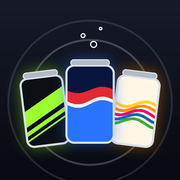
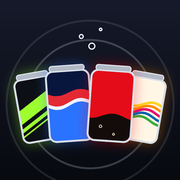
Add files via upload

diff --git a/radar.html b/radar.html
@@ -6,7 +6,7 @@
 <meta name="robots" content="noindex, nofollow">
 <meta name="theme-color" content="#05070a">
 <script>
-  window.RADAR_PRODUCTS = {"monster": {"key": "monster", "name": "Monster", "title": ["Monster", "Radar"], "dockLabel": "Monster", "offers": "monster.json", "history": "history.json", "metric": "unit", "unitWord": "Dose", "themeKey": "monsterradar:theme", "baseColor": "#05070a", "altColor": "#eef1f4", "labels": ["Original", "Ultra White"], "emoji": "⚡", "job": "Radar-Angebote", "fallbackDesc": "Monster Energy", "sparks": true, "fizz": false, "swirl": false, "slices": "can", "sharePage": "monster.html"}, "pepsi": {"key": "pepsi", "name": "Pepsi", "title": ["Pepsi", "Radar"], "dockLabel": "Pepsi", "offers": "pepsi.json", "history": "pepsi_history.json", "metric": "litre", "unitWord": "Flasche", "themeKey": "pepsiradar:theme", "baseColor": "#03060f", "altColor": "#edf1f6", "labels": ["Pepsi Max", "Pepsi Light"], "emoji": "🥤", "job": "Radar-Angebote", "fallbackDesc": "Pepsi", "sparks": false, "fizz": true, "swirl": false, "slices": "lemon", "sharePage": "pepsi.html"}, "spezi": {"key": "spezi", "name": "Spezi", "title": ["Spezi", "Radar"], "dockLabel": "Spezi", "offers": "spezi.json", "history": "spezi_history.json", "metric": "litre", "unitWord": "Flasche", "themeKey": "speziradar:theme", "baseColor": "#fff6e6", "altColor": "#140b12", "labels": ["Spezi", "Spezi Zero"], "emoji": "🍊", "job": "Radar-Angebote", "fallbackDesc": "Paulaner Spezi", "sparks": false, "fizz": false, "swirl": true, "slices": "orange", "sharePage": null}};
+  window.RADAR_PRODUCTS = {"monster": {"key": "monster", "name": "Monster", "title": ["Monster", "Radar"], "dockLabel": "Monster", "offers": "monster.json", "history": "history.json", "metric": "unit", "unitWord": "Dose", "themeKey": "monsterradar:theme", "baseColor": "#05070a", "altColor": "#eef1f4", "labels": ["Original", "Ultra White"], "emoji": "⚡", "job": "Radar-Angebote", "fallbackDesc": "Monster Energy", "sparks": true, "fizz": false, "swirl": false, "slices": "can", "sharePage": "monster.html"}, "pepsi": {"key": "pepsi", "name": "Pepsi", "title": ["Pepsi", "Radar"], "dockLabel": "Pepsi", "offers": "pepsi.json", "history": "pepsi_history.json", "metric": "litre", "unitWord": "Flasche", "themeKey": "pepsiradar:theme", "baseColor": "#03060f", "altColor": "#edf1f6", "labels": ["Pepsi Max", "Pepsi Light"], "emoji": "🥤", "job": "Radar-Angebote", "fallbackDesc": "Pepsi", "sparks": false, "fizz": true, "swirl": false, "slices": "lemon", "sharePage": "pepsi.html"}, "spezi": {"key": "spezi", "name": "Spezi", "title": ["Spezi", "Radar"], "dockLabel": "Spezi", "offers": "spezi.json", "history": "spezi_history.json", "metric": "litre", "unitWord": "Flasche", "themeKey": "speziradar:theme", "baseColor": "#fff6e6", "altColor": "#140b12", "labels": ["Spezi", "Spezi Zero"], "emoji": "🍊", "job": "Radar-Angebote", "fallbackDesc": "Paulaner Spezi", "sparks": false, "fizz": false, "swirl": true, "slices": "orange", "sharePage": null}, "cola": {"key": "cola", "name": "Cola", "title": ["Cola", "Radar"], "dockLabel": "Cola", "offers": "cola.json", "history": "cola_history.json", "metric": "litre", "unitWord": "Flasche", "themeKey": "colaradar:theme", "baseColor": "#0a0a0b", "altColor": "#eef0f2", "labels": ["Cola Zero", "Cola Light"], "emoji": "🥤", "job": "Radar-Angebote", "fallbackDesc": "Cola", "sparks": false, "fizz": true, "swirl": false, "slices": "lemon", "sharePage": null}};
   (function () {
     var P = window.RADAR_PRODUCTS, key = location.hash.replace('#', '');
     try { if (!P[key]) key = localStorage.getItem('spassradar:product'); } catch (e) {}
@@ -21,14 +21,14 @@
   })();
 </script>
 <title>Spaßgetränke Radar</title>
-<meta name="description" content="Monster, Pepsi und Paulaner Spezi im Angebot, mit Preisen, Laufzeit und Filialen in der Nähe.">
+<meta name="description" content="Monster, Pepsi, Spezi und Cola im Angebot, mit Preisen, Laufzeit und Filialen in der Nähe.">
 <meta property="og:title" content="Spaßgetränke Radar">
-<meta property="og:description" content="Monster, Pepsi und Paulaner Spezi im Angebot, mit Preisen, Laufzeit und Filialen in der Nähe.">
+<meta property="og:description" content="Monster, Pepsi, Spezi und Cola im Angebot, mit Preisen, Laufzeit und Filialen in der Nähe.">
 <meta property="og:type" content="website">
 <!-- App-Einbindung: eigenes Symbol, Start im Vollbild ohne Browserleisten -->
-<link rel="icon" type="image/png" sizes="192x192" href="radar-icon-192.png?v=4c238d9a">
-<link rel="apple-touch-icon" sizes="180x180" href="radar-icon-180.png?v=4c238d9a">
-<link rel="manifest" href="radar.webmanifest?v=4c238d9a">
+<link rel="icon" type="image/png" sizes="192x192" href="radar-icon-192.png?v=379a805d">
+<link rel="apple-touch-icon" sizes="180x180" href="radar-icon-180.png?v=379a805d">
+<link rel="manifest" href="radar.webmanifest?v=379a805d">
 <meta name="apple-mobile-web-app-capable" content="yes">
 <meta name="mobile-web-app-capable" content="yes">
 <meta name="apple-mobile-web-app-status-bar-style" content="black-translucent">
@@ -1482,6 +1482,151 @@ html.radar-spezi[data-mr="ultra"] .nrg-slices .cb { border-color: rgba(255, 200,
 }
 
 /* ==========================================================================
+   Cola Radar: Rot, Schwarz und Silber auf derselben Bauweise.
+   Cola Zero: tiefes Schwarz mit leuchtendem Rot.
+   Cola Light: Silber und Weiß mit roten Akzenten.
+   Kein Schriftlogo, kein geschwungenes Markenband: nur die Farben.
+   ========================================================================== */
+
+html.radar-cola {
+  --mr-bg: #0a0a0b;
+  --mr-panel: #141416;
+  --mr-panel-2: #1b1b1e;
+  --mr-card-a: #18181b;
+  --mr-line: #2a2a2e;
+  --mr-line-strong: #3b3b41;
+  --mr-fg: #f4f4f5;
+  --mr-strong: #ffffff;
+  --mr-dim: #a1a1aa;
+  --mr-faint: #74747c;
+  --mr-claim: #d6d6db;
+  --mr-desc: #b6b6bd;
+  --mr-street: #e8e8eb;
+  --mr-accent: #f40009;
+  --mr-accent-soft: #ff4d55;
+  --mr-on-accent: #ffffff;
+  --cl-brown: #3b1a0e;
+  --mr-tiles: invert(1) hue-rotate(180deg) grayscale(.6) brightness(.8) contrast(.95);
+}
+
+html.radar-cola[data-mr="ultra"] {
+  color-scheme: light;
+  --mr-bg: #eef0f2;
+  --mr-panel: #ffffff;
+  --mr-panel-2: #f5f6f7;
+  --mr-card-a: #ffffff;
+  --mr-line: #d9dce0;
+  --mr-line-strong: #c2c6cc;
+  --mr-fg: #16171a;
+  --mr-strong: #0b0b0c;
+  --mr-dim: #555a62;
+  --mr-faint: #8a8f97;
+  --mr-claim: #2e3238;
+  --mr-desc: #444950;
+  --mr-street: #16171a;
+  --mr-accent: #e4002b;
+  --mr-accent-soft: #ff4059;
+  --mr-on-accent: #ffffff;
+  --mr-tiles: grayscale(.9) brightness(1.04) contrast(.96);
+}
+
+/* Kopf: schwarz mit rotem Leuchten, unten Wellen in Rot und Cola-Braun */
+html.radar-cola .nrg-hero {
+  background:
+    radial-gradient(60% 90% at 88% 0%, rgba(244, 0, 9, .30), transparent 70%),
+    radial-gradient(45% 70% at 8% 100%, rgba(244, 0, 9, .10), transparent 70%),
+    var(--mr-bg);
+  border-bottom: 0;
+  box-shadow: none;
+  padding-bottom: 76px;
+}
+html.radar-cola .nrg-grid {
+  background:
+    repeating-linear-gradient(115deg, rgba(244, 0, 9, .12) 0 2px, transparent 2px 46px),
+    radial-gradient(60% 80% at 20% 0%, rgba(244, 0, 9, .14), transparent 70%);
+}
+html.radar-cola .nrg-title span:last-child { text-shadow: 0 0 28px rgba(244, 0, 9, .55); }
+html.radar-cola .nrg-title, html.radar-cola .nrg-claim { z-index: 2; }
+html.radar-cola .nrg-fizz i {
+  border-color: rgba(255, 232, 205, .65);
+  background: radial-gradient(circle at 32% 30%, rgba(255,255,255,.8) 0 12%, rgba(255, 200, 150, .15) 13% 60%, transparent 62%);
+  box-shadow: 0 0 8px rgba(244, 0, 9, .25);
+}
+html.radar-cola .nrg-waves .w-back { fill: var(--cl-brown); }
+html.radar-cola .nrg-waves .w-front { fill: #f40009; }
+html.radar-cola .fruit-lemon, html.radar-cola .nrg-slices.is-lemon .sl { filter: drop-shadow(0 0 12px rgba(245, 212, 20, .45)); }
+
+/* Cola Light: silberner Kopf, rote Schrift-Akzente */
+html.radar-cola[data-mr="ultra"] .nrg-hero {
+  background:
+    radial-gradient(70% 90% at 85% 10%, rgba(228, 0, 43, .10), transparent 70%),
+    linear-gradient(180deg, #ffffff 0%, #eceef1 100%);
+}
+html.radar-cola[data-mr="ultra"] .nrg-grid {
+  background: repeating-linear-gradient(115deg, rgba(120, 125, 135, .14) 0 2px, transparent 2px 46px);
+}
+html.radar-cola[data-mr="ultra"] .nrg-title span:last-child { text-shadow: 0 0 22px rgba(228, 0, 43, .22); }
+html.radar-cola[data-mr="ultra"] .nrg-fizz i {
+  border-color: rgba(120, 125, 135, .45);
+  background: radial-gradient(circle at 32% 30%, rgba(255,255,255,.95) 0 14%, rgba(180,185,195,.12) 15% 60%, transparent 62%);
+  box-shadow: none;
+}
+html.radar-cola[data-mr="ultra"] .nrg-waves .w-back { fill: rgba(59, 26, 14, .75); }
+html.radar-cola[data-mr="ultra"] .nrg-waves .w-front { fill: #e4002b; }
+html.radar-cola[data-mr="ultra"] .nrg-slices.is-lemon .sl { filter: drop-shadow(0 3px 8px rgba(120, 100, 0, .2)); }
+html.radar-cola[data-mr="ultra"] .nrg-ticker { background: linear-gradient(90deg, #d8dbe0, #ffffff 30%, #f3d9dd 60%, #ffffff 80%, #d8dbe0); }
+
+/* Karten: kleine Perlen in Rot statt Kratzspuren */
+html.radar-cola .can-claw { gap: 9px; align-items: flex-end; top: 14px; opacity: .85; }
+html.radar-cola .can-claw i {
+  width: 9px; height: 9px; border-radius: 50%;
+  background: none; border: 2px solid var(--mr-accent); transform: none;
+  animation: fizz 2.6s ease-in infinite;
+}
+html.radar-cola .can-claw i:nth-child(2) { width: 13px; height: 13px; animation-delay: .7s; }
+html.radar-cola .can-claw i:nth-child(3) { width: 7px; height: 7px; animation-delay: 1.4s; }
+html.radar-cola .can-top span { background: #ffffff; color: #d10007; }
+html.radar-cola[data-mr="ultra"] .can-top span { background: #0b0b0c; color: #ffffff; }
+html.radar-cola .can-pack.is-litre { border-color: color-mix(in srgb, var(--mr-accent) 55%, transparent); color: var(--mr-accent-soft); }
+html.radar-cola[data-mr="ultra"] .can.is-top { box-shadow: 0 0 0 1px rgba(228, 0, 43, .45), 0 16px 36px rgba(228, 0, 43, .12); }
+
+/* Kleine Beschriftungen im hellen Design: dunkles Rot statt des Monster-Babyblaus */
+html.radar-cola[data-mr="ultra"] .can-litre,
+html.radar-cola[data-mr="ultra"] .cs-head,
+html.radar-cola[data-mr="ultra"] .cs-dist,
+html.radar-cola[data-mr="ultra"] .can-soon,
+html.radar-cola[data-mr="ultra"] .nas-name,
+html.radar-cola[data-mr="ultra"] .nrg-claim b,
+html.radar-cola[data-mr="ultra"] .nrg-all > summary b,
+html.radar-cola[data-mr="ultra"] .cs-none a,
+html.radar-cola[data-mr="ultra"] .hk b,
+html.radar-cola[data-mr="ultra"] .hist-weeks b,
+html.radar-cola[data-mr="ultra"] .can-deal.is-good,
+html.radar-cola[data-mr="ultra"] .claim-deal,
+html.radar-cola[data-mr="ultra"] .hl-best,
+html.radar-cola[data-mr="ultra"] .can-pack.is-litre { color: #b8001f; }
+html.radar-cola[data-mr="ultra"] .hl-best.is-zero { color: var(--mr-faint); }
+html.radar-cola[data-mr="ultra"] .can-clock.is-upcoming { color: #b8001f; box-shadow: inset 0 0 0 2px #b8001f; }
+html.radar-cola[data-mr="ultra"] .holo { mix-blend-mode: multiply; opacity: .25; }
+
+html.radar-cola .mr-switch button[data-mr-theme="original"][aria-pressed="true"] {
+  background: #0b0b0c; color: #ffffff;
+  box-shadow: inset 0 0 0 1px #f40009, 0 0 0 2px rgba(244, 0, 9, .35);
+}
+html.radar-cola .mr-switch button[data-mr-theme="ultra"][aria-pressed="true"] {
+  background: linear-gradient(135deg, #ffffff, #e2e5e9);
+  color: #b8001f;
+  box-shadow: inset 0 0 0 1px #c2c6cc, 0 0 0 2px rgba(228, 0, 43, .3);
+}
+
+@media (max-width: 740px) {
+  html.radar-cola .nrg-hero { padding-bottom: 60px; }
+}
+@media (prefers-reduced-motion: reduce) {
+  html.radar-cola .can-claw i { animation: none; }
+}
+
+/* ==========================================================================
    Spaßgetränke Radar: Wechselleiste unten und Farbwisch beim Umschalten.
    Nur auf radar.html eingebunden.
    ========================================================================== */
@@ -1530,6 +1675,7 @@ main { padding-bottom: calc(env(safe-area-inset-bottom) + 110px) !important; }
 .dot-monster { background: #9dff2e; box-shadow: 0 0 10px rgba(157, 255, 46, .7); }
 .dot-pepsi { background: linear-gradient(180deg, #e32934 0 45%, #ffffff 45% 55%, #2a73ff 55%); }
 .dot-spezi { background: conic-gradient(#ffd21f, #ff8a00, #e5006d, #0064b0, #3aaa35, #ffd21f); }
+.dot-cola { background: radial-gradient(circle at 35% 30%, #ff6b70 0 18%, #f40009 22%); box-shadow: 0 0 0 2px #0b0b0c inset, 0 0 8px rgba(244, 0, 9, .55); }
 .radar-dock button[aria-pressed="true"] .dock-dot { box-shadow: 0 0 0 2px rgba(255, 255, 255, .85); }
 
 /* Farbwisch: schräge Fläche in der Markenfarbe fegt über den Bildschirm */
@@ -1544,6 +1690,7 @@ main { padding-bottom: calc(env(safe-area-inset-bottom) + 110px) !important; }
 .wipe-monster { background: linear-gradient(115deg, #05070a 0 40%, #9dff2e 40% 60%, #05070a 60%); }
 .wipe-pepsi { background: linear-gradient(115deg, #03060f 0 38%, #2a73ff 38% 52%, #e32934 52% 62%, #03060f 62%); }
 .wipe-spezi { background: linear-gradient(115deg, #ffd21f 0 20%, #ff8a00 20% 40%, #e5006d 40% 60%, #0064b0 60% 80%, #3aaa35 80%); }
+.wipe-cola { background: linear-gradient(115deg, #0a0a0b 0 36%, #f40009 36% 58%, #ffffff 58% 64%, #0a0a0b 64%); }
 @keyframes productWipe {
   0%   { clip-path: polygon(-30% 0, -10% 0, -30% 100%, -50% 100%); }
   45%  { clip-path: polygon(-30% 0, 130% 0, 110% 100%, -50% 100%); }
@@ -1554,6 +1701,10 @@ main { padding-bottom: calc(env(safe-area-inset-bottom) + 110px) !important; }
 /* Der Designschalter oben rechts bleibt frei von der Leiste */
 @media (max-width: 740px) {
   .radar-dock button { padding: 9px 13px 9px 10px; font-size: 13.5px; }
+}
+@media (max-width: 420px) {
+  .radar-dock { gap: 2px; padding: 4px; max-width: calc(100vw - 20px); }
+  .radar-dock button { padding: 8px 9px 8px 8px; font-size: 12.5px; gap: 6px; }
   .radar-dock { bottom: calc(env(safe-area-inset-bottom) + 10px); }
 }
 @media (prefers-reduced-motion: reduce) {
